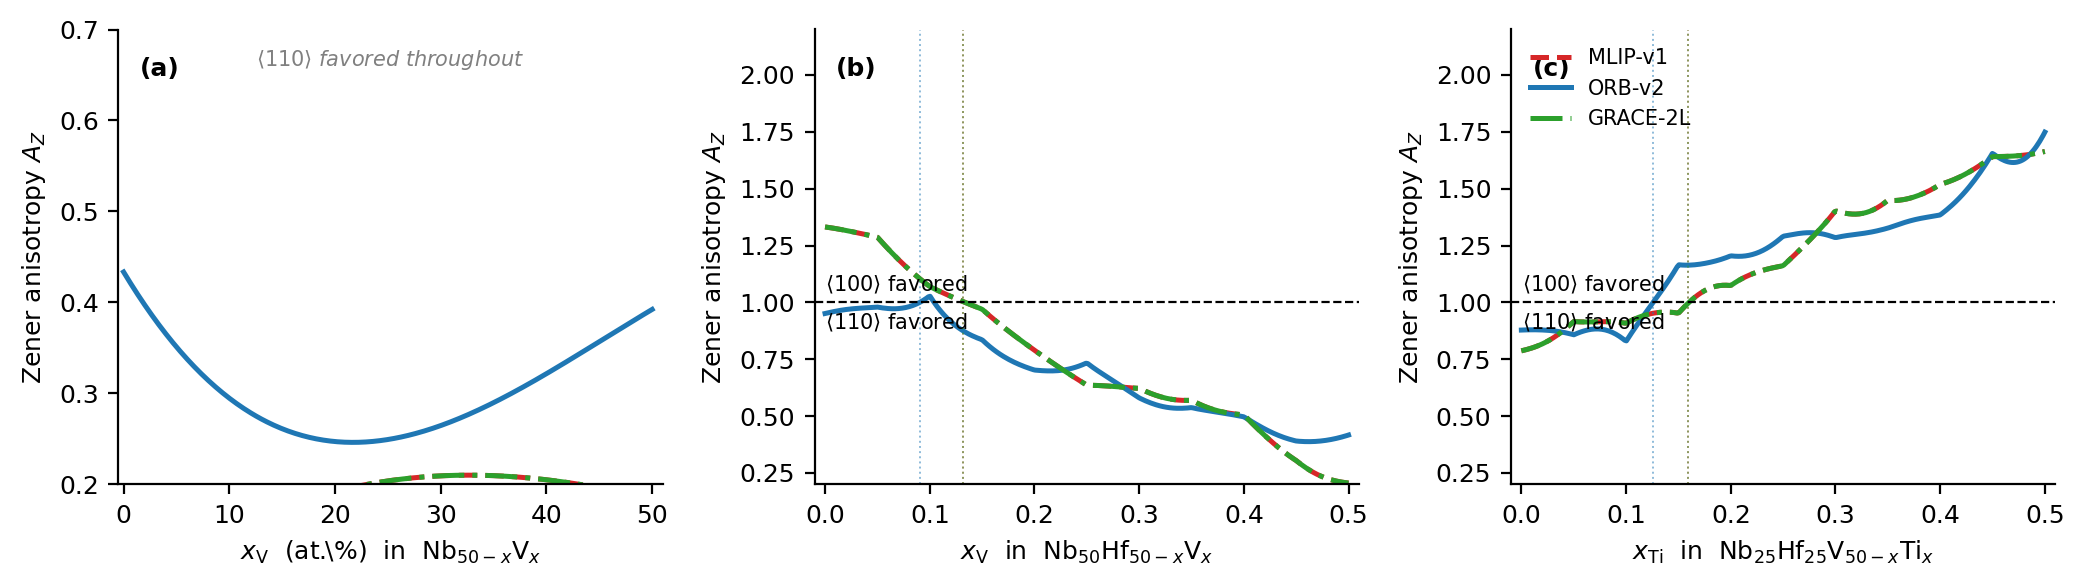
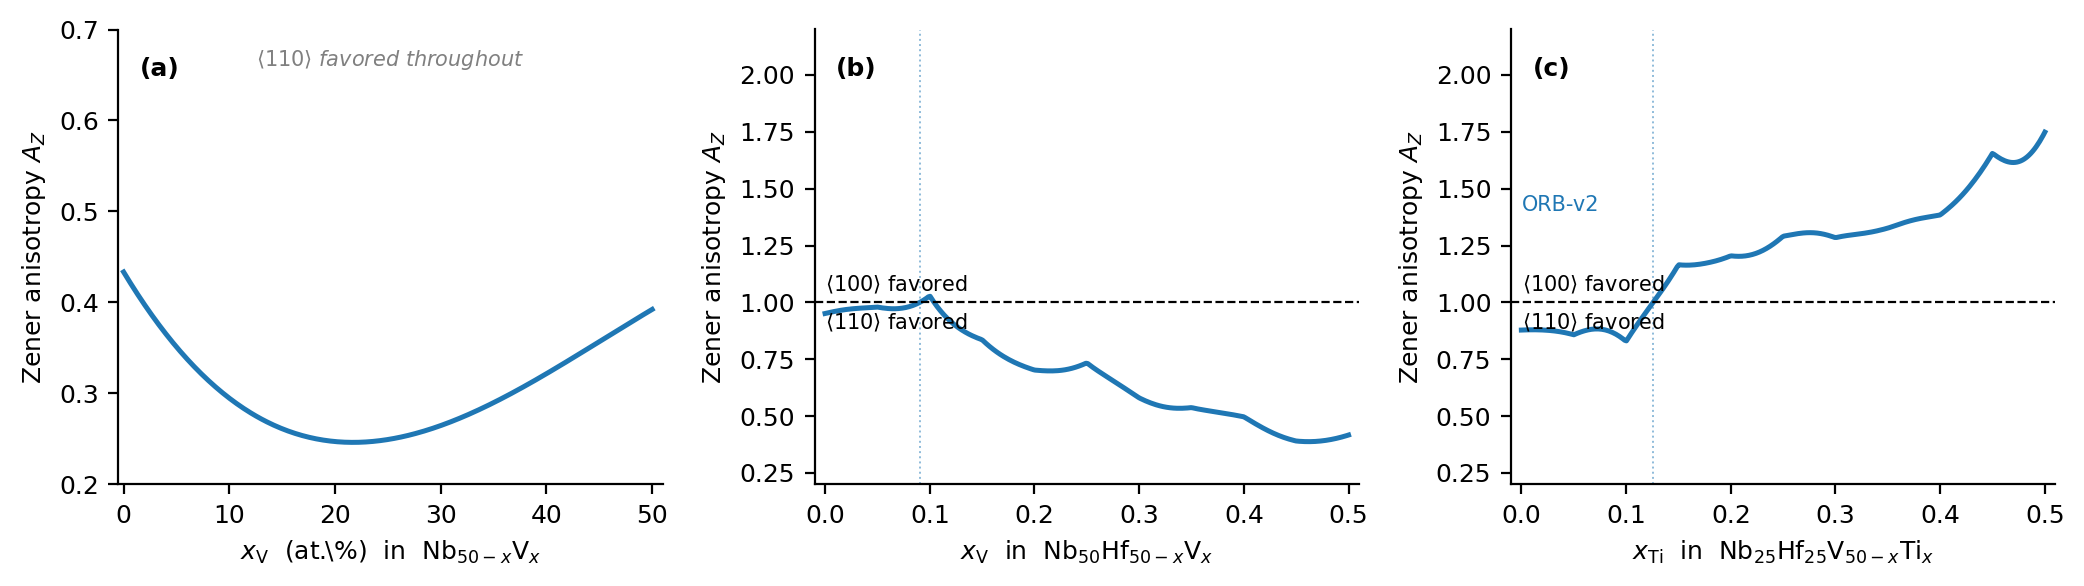
Update az_vs_ti figure: show ORB-v2 only, replace legend with inline annotation

diff --git a/workflows/07_ternary_figure/plot_az_vs_ti.py b/workflows/07_ternary_figure/plot_az_vs_ti.py
@@ -61,20 +61,10 @@ comps_C    = np.column_stack([
 ])
 
 VERSIONS = {
-    'MLIP-v1': {
-        'csv':   ROOT / 'data/HfNbTiV_BCC_PhaseForge_v1_Tindep/sqs_elastic_constants_HfNbVTi_v1.csv',
-        'color': '#d62728',
-        'ls':    '--',
-    },
     'ORB-v2': {
         'csv':   ROOT / 'data/HfNbTiV_BCC_PhaseForge_v2/sqs_elastic_constants_HfNbVTi-orb-v2.csv',
         'color': '#1f77b4',
         'ls':    '-',
-    },
-    'GRACE-2L': {
-        'csv':   ROOT / 'data/HfNbTiV_BCC_PhaseForge_v3/sqs_elastic_constants_HfNbVTi-GRACE-2L-SMAX-OMAT-large.csv',
-        'color': '#2ca02c',
-        'ls':    '-.',
     },
 }
 
@@ -140,7 +130,8 @@ for ax, (comps, x_range, xlabel, panel, xlim, ylim) in zip(axes, panels):
 
 for ax in axes:
     ax.set_ylabel(r'Zener anisotropy $A_Z$')
-axes[2].legend(fontsize=7.5, loc='upper left', frameon=False)
+axes[2].annotate('ORB-v2', xy=(0.02, 0.60), xycoords='axes fraction',
+                 fontsize=7.5, color='#1f77b4')
 
 fig.tight_layout()
 
